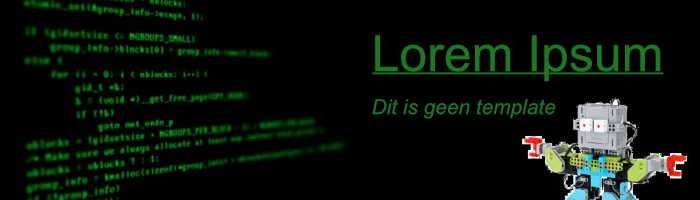
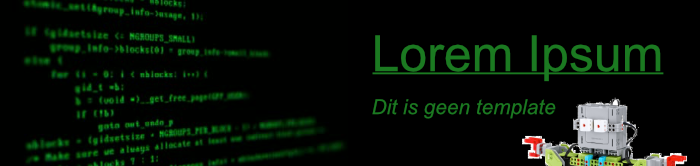
made the header smaller and added red pallet

diff --git a/opdrachten/style.css b/opdrachten/style.css
@@ -1,28 +1,52 @@
 * {
   margin: 0px;
   padding: 0px;
+  font-family: Roboto, "Roboto Mono", Comfortaa, Calibri;
 }
 
 .backgroundimage {
-  background-image: url("https://static.pexels.com/photos/17679/pexels-photo.jpg");
+  background-color: #582626;
 }
 
 .art {
-  background-color: white;
+  background-color: #AA3939;
   box-shadow: 0 1px 3px rgba(0,0,0,0.12), 0 1px 2px rgba(0,0,0,0.24);
   transition: 0.2s;
   padding: 10px;
-  width: 40%;
+  width: 45%;
   float: left;
   display: inline-table;
   margin: 1rem;
+  top: 0;
 }
 
 .art1 {
   clear: left;
-  width: 80%;
+  width: 95%;
 }
 
 .art:hover {
   box-shadow: 0 14px 28px rgba(0,0,0,0.25), 0 10px 10px rgba(0,0,0,0.22);
+}
+
+.menu {
+  background-color: #AA3939;
+  padding: 30px;
+  text-align: center;
+}
+
+.menulink {
+  text-decoration: none;
+  color: black;
+  background-color: #FC3B3B;
+  padding: 30px;
+  margin-left: 5px;
+  margin-right: 5px;
+  text-align: center;
+  width: 50%;
+  color: white;
+}
+
+.menulink:hover {
+  background-color: #D33C3C;
 }

diff --git a/opdrachten/pagina2.html b/opdrachten/pagina2.html
@@ -7,13 +7,11 @@
   </head>
   <body class="backgroundimage">
     <img src="header.png" width="100%"></img>
-    <nav>
-      <ul>
-        <li><a href="pagina2.html">Home</a></li>
-        <li><a href=""></a></li>
-        <li><a href=""></a></li>
-        <li><a href="https://google.com">google</a></li>
-      </ul>
+    <nav class="menu">
+      <a class="menulink" href="pagina2.html">Home</a>
+      <a class="menulink" href="contact.html">About</a>
+      <a class="menulink" href="about.html">Contact</a>
+      <a class="menulink" href="https://google.com">google</a>
     </nav>
     <section>
       <article class="art">
